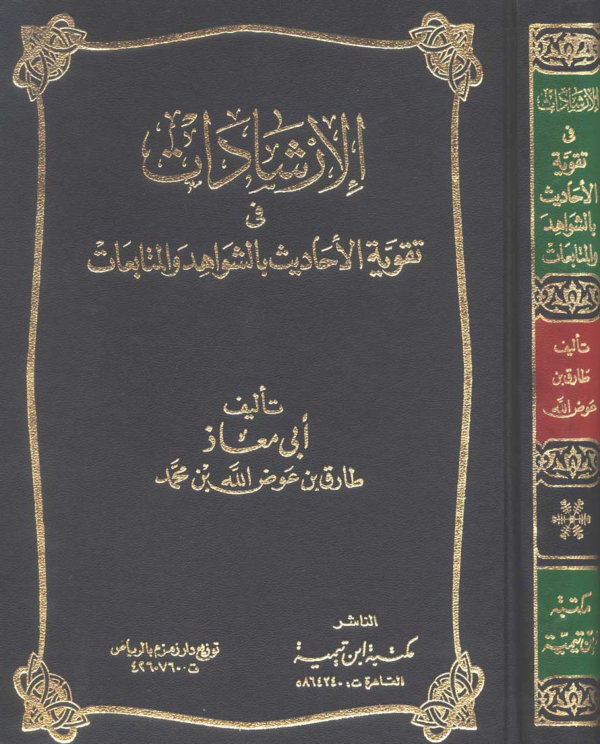
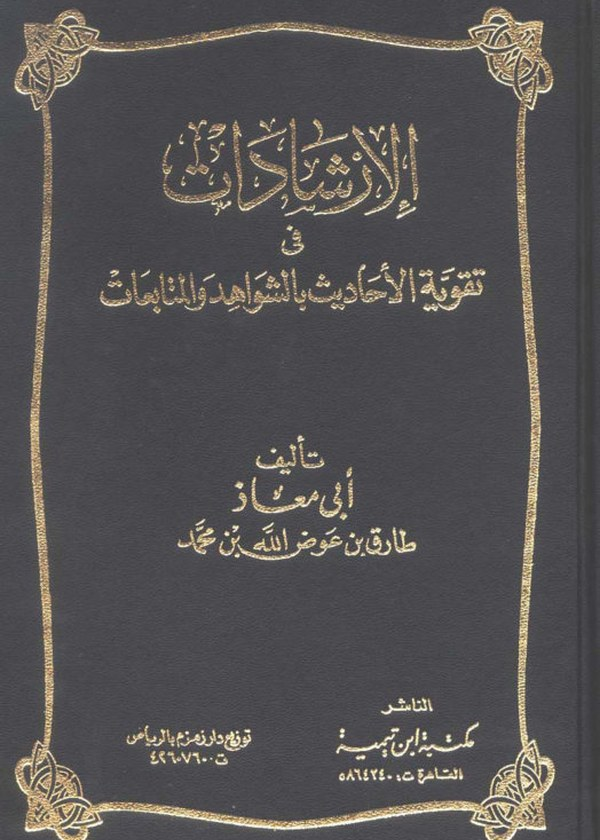
توحيد أبعاد الأغلفة (5:7): واجهة الإرشادات بدون الكعب، وتوسيع جانبي الأمالي
Claude-Session: https://claude.ai/code/session_01Hvw5DNXTRroHvErg15jv6z

Changed region(s): [[0.0, 0.0, 1.0, 1.0], [0.27, 0.5255, 0.69, 0.6801]]

diff --git a/kitab/b01.html b/kitab/b01.html
@@ -12,12 +12,12 @@
 <meta property="og:title" content="الإرشادات في تقوية الأحاديث بالشواهد والمتابعات — أبو معاذ طارق بن عوض الله بن محمد">
 <meta property="og:description" content="كتاب «الإرشادات في تقوية الأحاديث بالشواهد والمتابعات» — أبو معاذ طارق بن عوض الله بن محمد، من تصنيف علوم الحديث، في ٤٩٤ صفحة. اقرأه مجاناً بتقليب الصفحات في مؤلفات الدكتور عبدالرحمن بن صالح الدهش.">
 <meta property="og:url" content="https://mohdalshehri.github.io/aldahash/kitab/b01.html">
-<meta property="og:image" content="https://mohdalshehri.github.io/aldahash/covers/book-01.jpg">
+<meta property="og:image" content="https://mohdalshehri.github.io/aldahash/covers/book-01.jpg%3Fv%3D2">
 <meta property="og:image:alt" content="الإرشادات في تقوية الأحاديث بالشواهد والمتابعات">
 <meta name="twitter:card" content="summary_large_image">
 <meta name="twitter:title" content="الإرشادات في تقوية الأحاديث بالشواهد والمتابعات">
 <meta name="twitter:description" content="كتاب «الإرشادات في تقوية الأحاديث بالشواهد والمتابعات» — أبو معاذ طارق بن عوض الله بن محمد، من تصنيف علوم الحديث، في ٤٩٤ صفحة. اقرأه مجاناً بتقليب الصفحات في مؤلفات الدكتور عبدالرحمن بن صالح الدهش.">
-<meta name="twitter:image" content="https://mohdalshehri.github.io/aldahash/covers/book-01.jpg">
+<meta name="twitter:image" content="https://mohdalshehri.github.io/aldahash/covers/book-01.jpg%3Fv%3D2">
 <script type="application/ld+json">
 {
  "@context": "https://schema.org",
@@ -25,7 +25,7 @@
  "name": "الإرشادات في تقوية الأحاديث بالشواهد والمتابعات",
  "inLanguage": "ar",
  "url": "https://mohdalshehri.github.io/aldahash/kitab/b01.html",
- "image": "https://mohdalshehri.github.io/aldahash/covers/book-01.jpg",
+ "image": "https://mohdalshehri.github.io/aldahash/covers/book-01.jpg%3Fv%3D2",
  "isPartOf": {
   "@type": "WebSite",
   "name": "مؤلفات الدكتور عبدالرحمن بن صالح الدهش",
@@ -87,7 +87,7 @@
   <div class="wrap">
     <p class="crumb"><a href="../">مؤلفات الدكتور عبدالرحمن بن صالح الدهش</a> ‹ علوم الحديث</p>
     <article class="kb-grid">
-      <figure class="kb-cover"><img src="../covers/book-01.jpg" alt="الإرشادات في تقوية الأحاديث بالشواهد والمتابعات" width="600" height="744"></figure>
+      <figure class="kb-cover"><img src="../covers/book-01.jpg?v=2" alt="الإرشادات في تقوية الأحاديث بالشواهد والمتابعات"></figure>
       <div class="kb-info">
         <h1>الإرشادات في تقوية الأحاديث بالشواهد والمتابعات</h1>
         <p class="by">أبو معاذ طارق بن عوض الله بن محمد</p>

diff --git a/kitab/b02.html b/kitab/b02.html
@@ -12,12 +12,12 @@
 <meta property="og:title" content="الأمالي على مختصر صحيح البخاري — الدكتور عبدالرحمن بن صالح الدهش">
 <meta property="og:description" content="كتاب «الأمالي على مختصر صحيح البخاري» — الدكتور عبدالرحمن بن صالح الدهش، من تصنيف شروح الحديث، في ١٬٣١٧ صفحة. اقرأه مجاناً بتقليب الصفحات في مؤلفات الدكتور عبدالرحمن بن صالح الدهش.">
 <meta property="og:url" content="https://mohdalshehri.github.io/aldahash/kitab/b02.html">
-<meta property="og:image" content="https://mohdalshehri.github.io/aldahash/covers/book-02.jpg">
+<meta property="og:image" content="https://mohdalshehri.github.io/aldahash/covers/book-02.jpg%3Fv%3D2">
 <meta property="og:image:alt" content="الأمالي على مختصر صحيح البخاري">
 <meta name="twitter:card" content="summary_large_image">
 <meta name="twitter:title" content="الأمالي على مختصر صحيح البخاري">
 <meta name="twitter:description" content="كتاب «الأمالي على مختصر صحيح البخاري» — الدكتور عبدالرحمن بن صالح الدهش، من تصنيف شروح الحديث، في ١٬٣١٧ صفحة. اقرأه مجاناً بتقليب الصفحات في مؤلفات الدكتور عبدالرحمن بن صالح الدهش.">
-<meta name="twitter:image" content="https://mohdalshehri.github.io/aldahash/covers/book-02.jpg">
+<meta name="twitter:image" content="https://mohdalshehri.github.io/aldahash/covers/book-02.jpg%3Fv%3D2">
 <script type="application/ld+json">
 {
  "@context": "https://schema.org",
@@ -25,7 +25,7 @@
  "name": "الأمالي على مختصر صحيح البخاري",
  "inLanguage": "ar",
  "url": "https://mohdalshehri.github.io/aldahash/kitab/b02.html",
- "image": "https://mohdalshehri.github.io/aldahash/covers/book-02.jpg",
+ "image": "https://mohdalshehri.github.io/aldahash/covers/book-02.jpg%3Fv%3D2",
  "isPartOf": {
   "@type": "WebSite",
   "name": "مؤلفات الدكتور عبدالرحمن بن صالح الدهش",
@@ -87,7 +87,7 @@
   <div class="wrap">
     <p class="crumb"><a href="../">مؤلفات الدكتور عبدالرحمن بن صالح الدهش</a> ‹ شروح الحديث</p>
     <article class="kb-grid">
-      <figure class="kb-cover"><img src="../covers/book-02.jpg" alt="الأمالي على مختصر صحيح البخاري" width="600" height="929"></figure>
+      <figure class="kb-cover"><img src="../covers/book-02.jpg?v=2" alt="الأمالي على مختصر صحيح البخاري"></figure>
       <div class="kb-info">
         <h1>الأمالي على مختصر صحيح البخاري</h1>
         <p class="by">الدكتور عبدالرحمن بن صالح الدهش</p>
